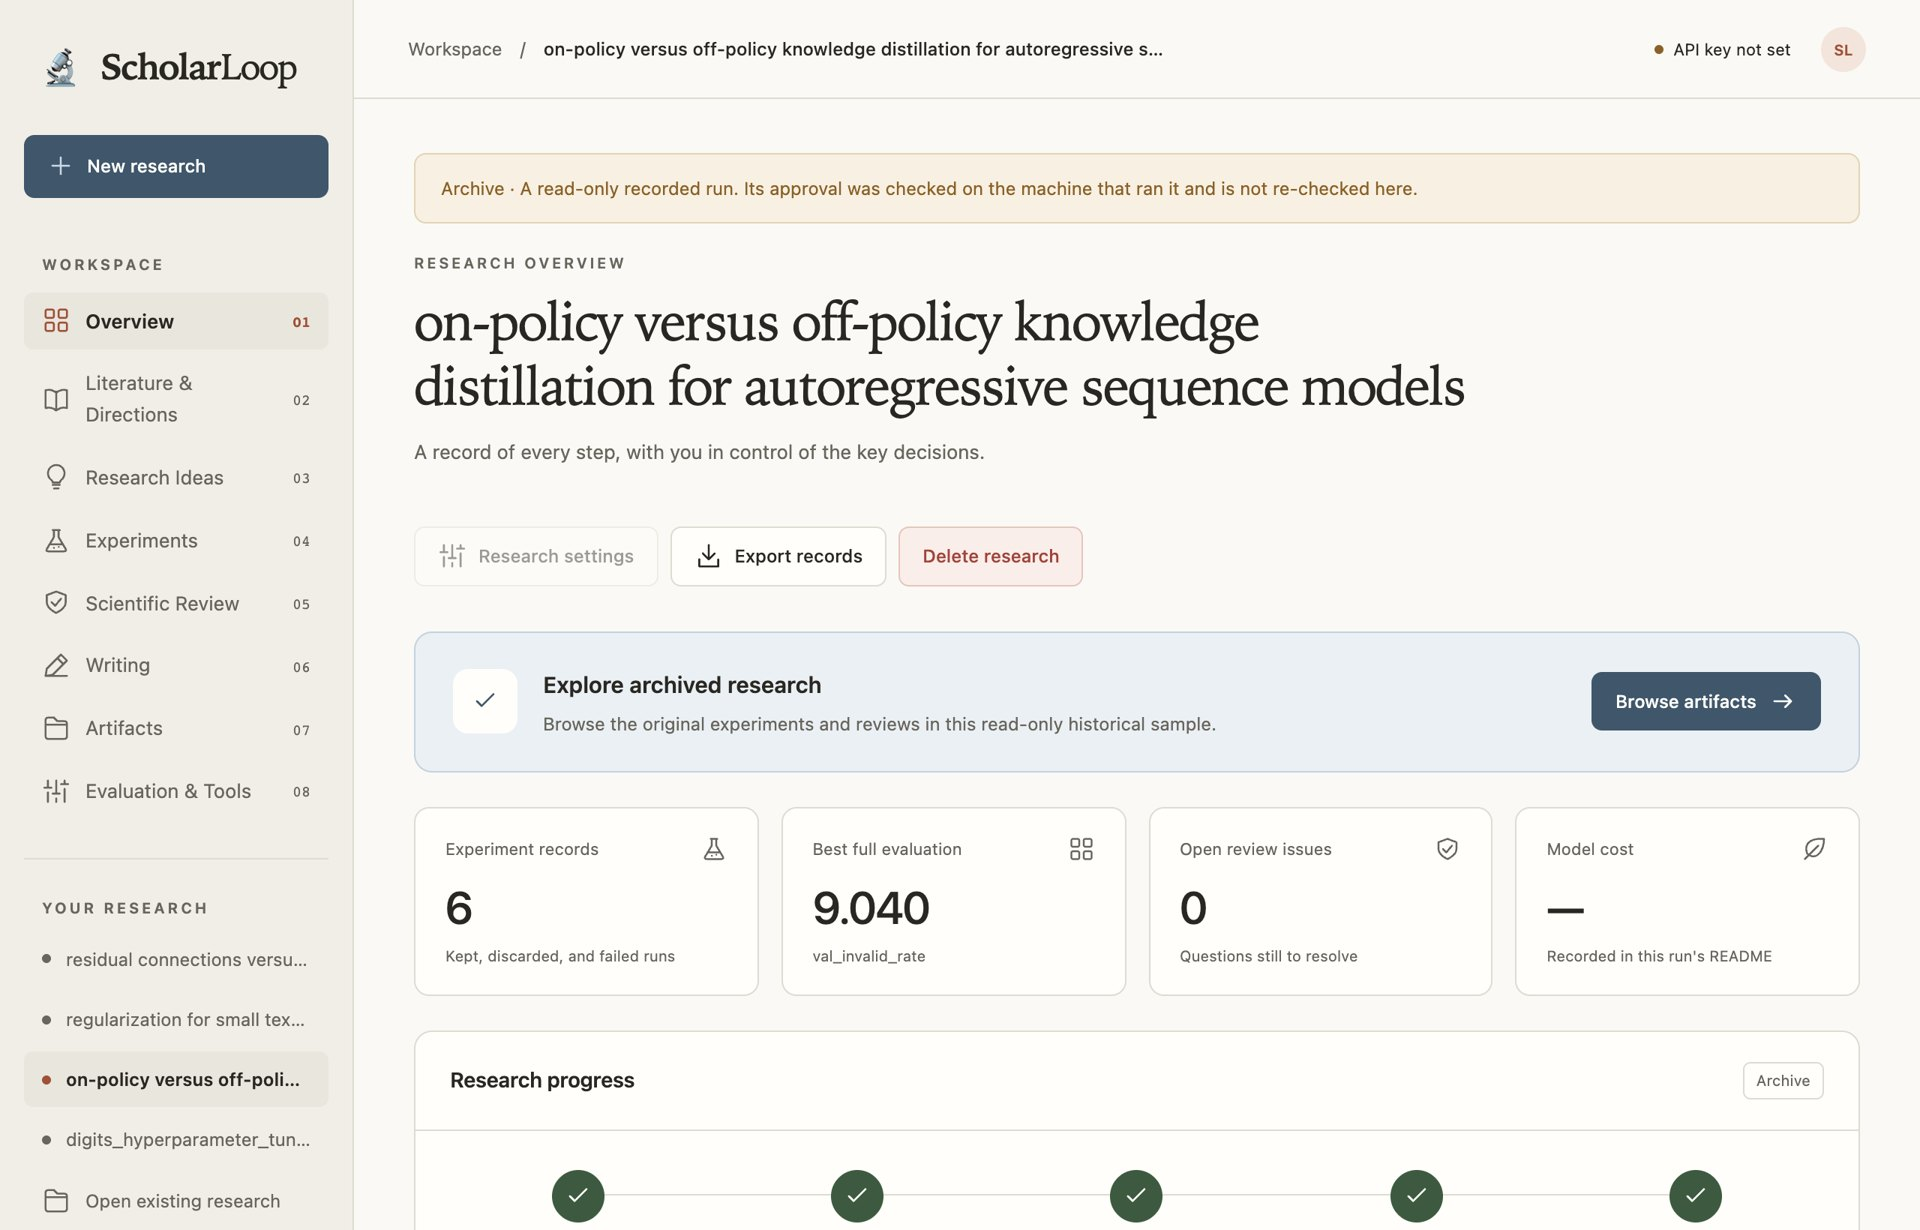
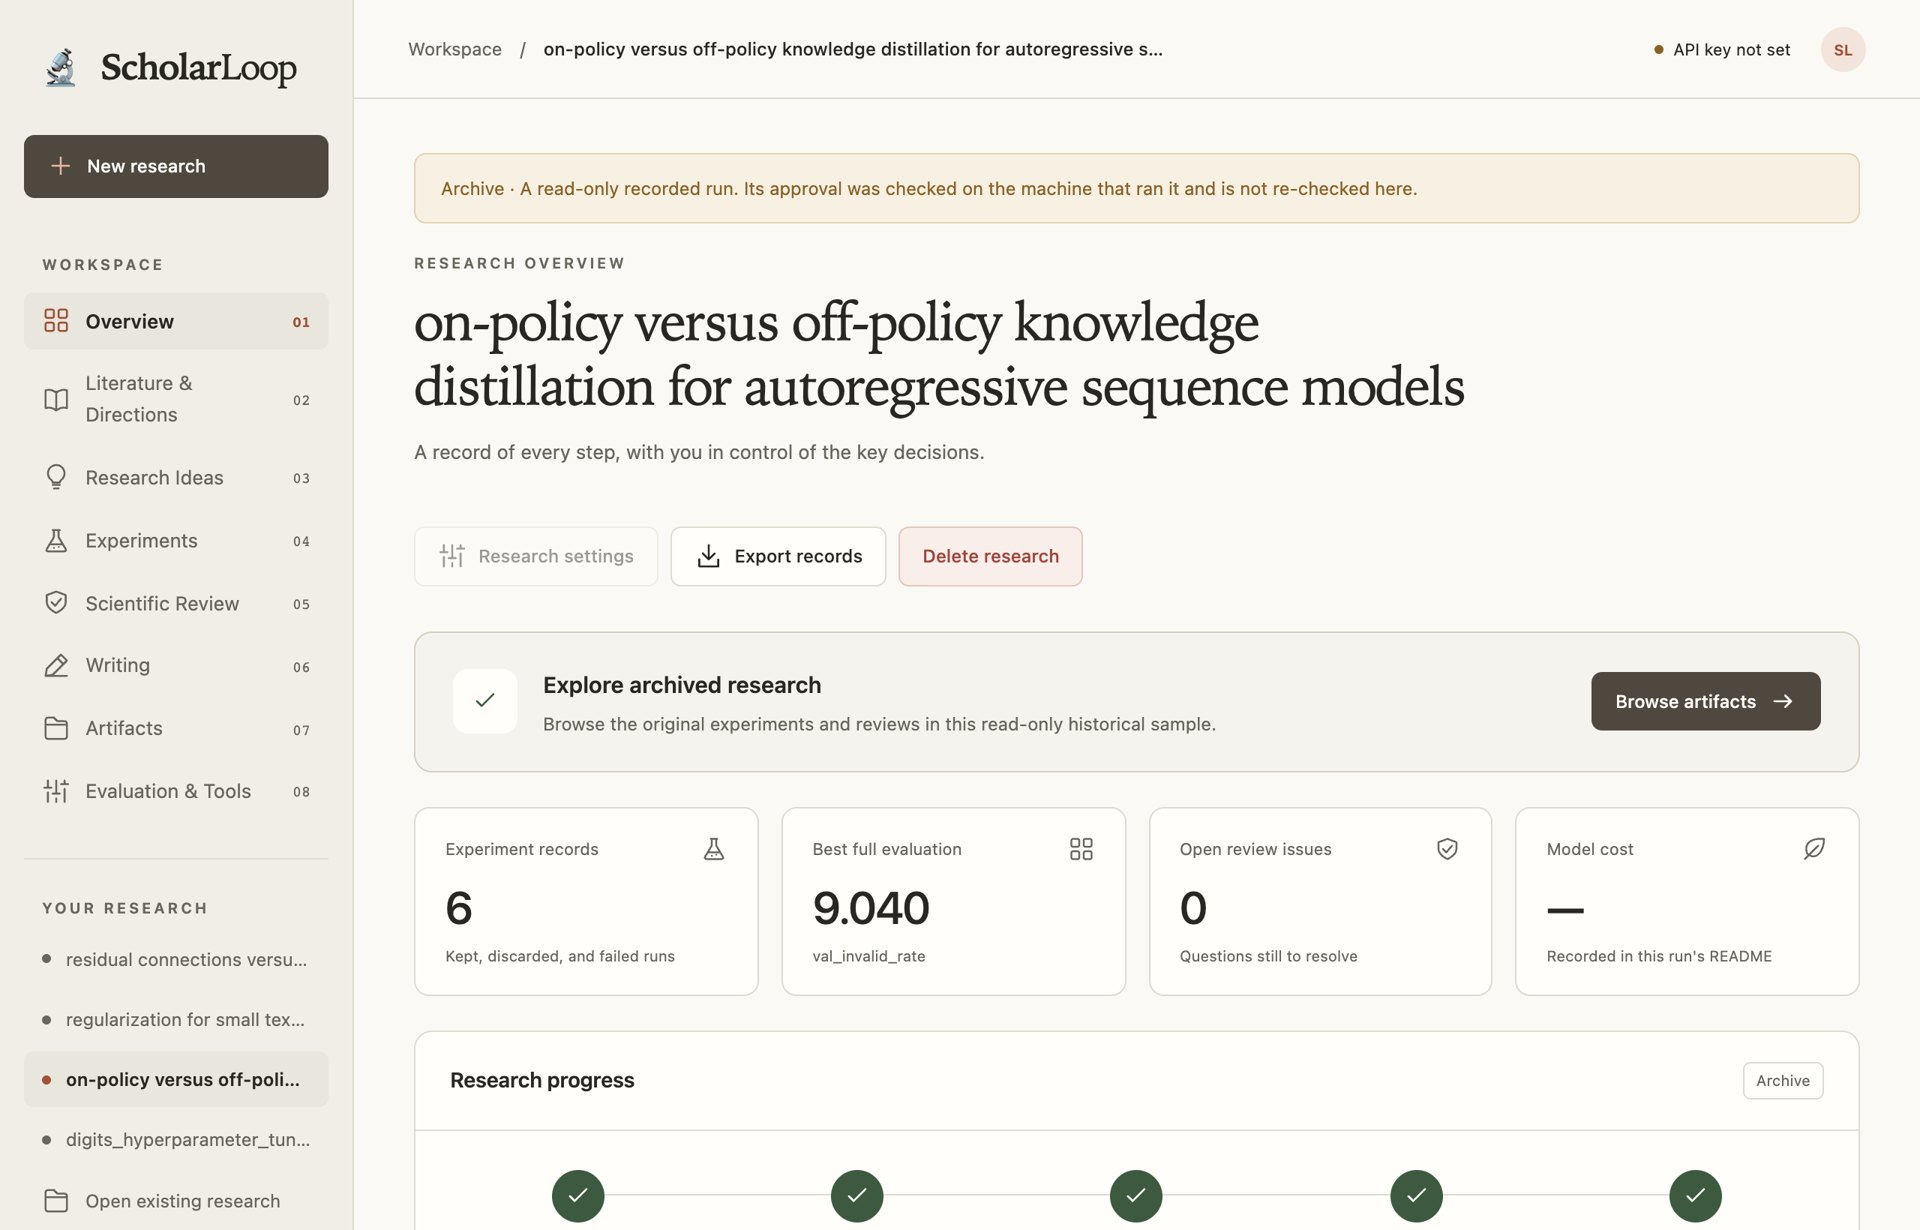
Settle the palette: warm charcoal for primary actions, a neutral panel for finished studies and archives, deep green only for completed steps

Changed region(s): [[0.0, 0.0927, 0.1875, 0.1854], [0.8125, 0.5252, 0.9688, 0.6179]]

diff --git a/scholarloop/ui/static/style.css b/scholarloop/ui/static/style.css
@@ -314,12 +314,14 @@ input::placeholder, textarea::placeholder { color: var(--muted); opacity: 1; }
 .welcome-art .orbit-card { fill: var(--paper); stroke: var(--line-strong); }
 .welcome-art .orbit-symbol { stroke: var(--muted); }
 
-/* Slate blue for primary actions; a finished study or a recorded run is marked in its pale tint. */
-.btn.primary { color: #fffefa; background: #3f566b; border-color: #3f566b; }
-.btn.primary:hover { background: #364b5e; border-color: #364b5e; }
-.new-button .icon { color: #c9d8e4; }
-.callout.ready { background: #eaf0f4; border-color: #c3d2de; }
-.callout.ready .callout-icon { color: #3f566b; }
+/* Warm charcoal for primary actions, softer than the ink black. A finished study or a recorded
+   run sits on the neutral surface. Deep green appears only where something is done: the
+   completed steps of the progress line and the mark on a finished study. */
+:root { --action: #4f483e; --action-hover: #433d34; --done: #3d5a40; }
+.btn.primary { color: var(--paper); background: var(--action); border-color: var(--action); }
+.btn.primary:hover { background: var(--action-hover); border-color: var(--action-hover); }
+.new-button .icon { color: #e8b59e; }
+.callout.ready { background: var(--surface); border-color: #d6d0c3; }
+.callout.ready .callout-icon { color: var(--done); }
+.workflow-step.done .step-circle { background: var(--done); border-color: var(--done); color: var(--paper); }
 .welcome-actions { display: flex; gap: 10px; flex-wrap: wrap; align-items: center; }
-/* Completed steps of the progress line. */
-.workflow-step.done .step-circle { background: #3d5a40; border-color: #3d5a40; color: #fffefa; }
